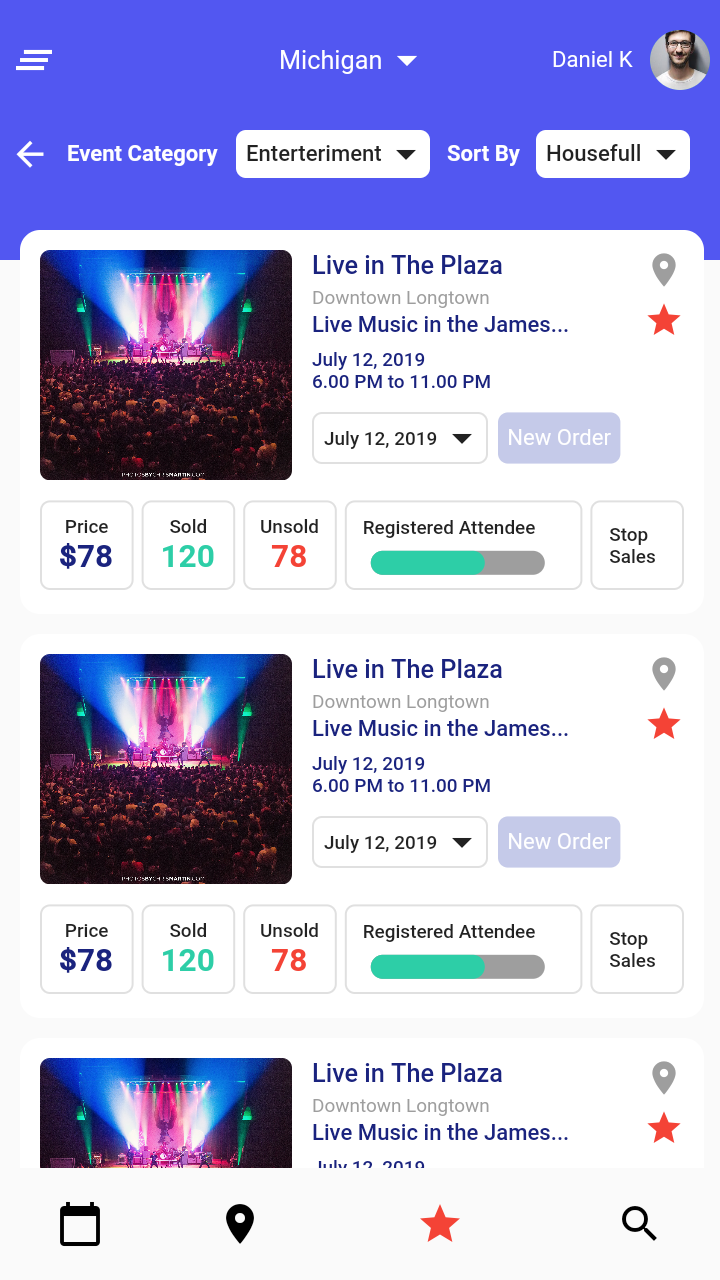
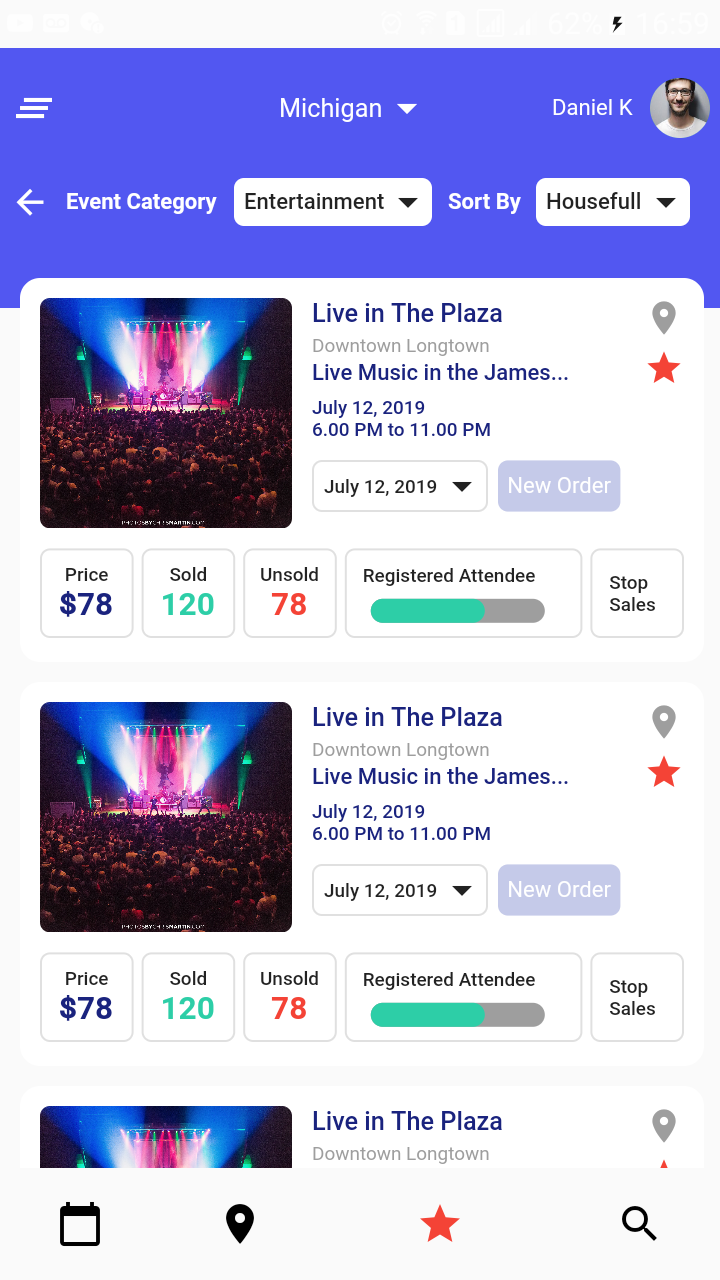
Event Organizer Challenge

diff --git a/lib/src/pages/events_list.dart b/lib/src/pages/events_list.dart
@@ -76,7 +76,7 @@ class EventsList extends StatelessWidget {
                               borderRadius: BorderRadius.circular(5)),
                           child: Row(
                             children: <Widget>[
-                              Text('Enterteriment',
+                              Text('Entertainment',
                                   style:
                                       TextStyle(fontWeight: FontWeight.w500)),
                               Icon(Icons.arrow_drop_down)
